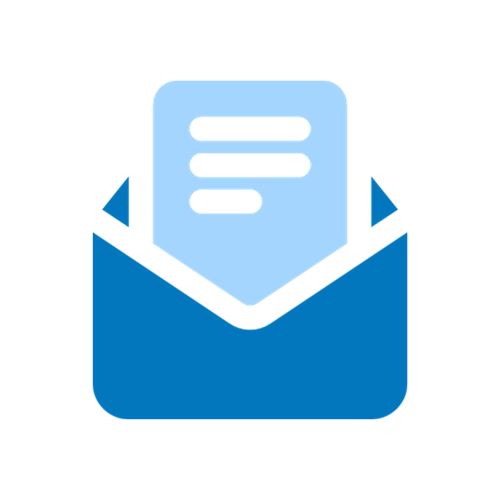
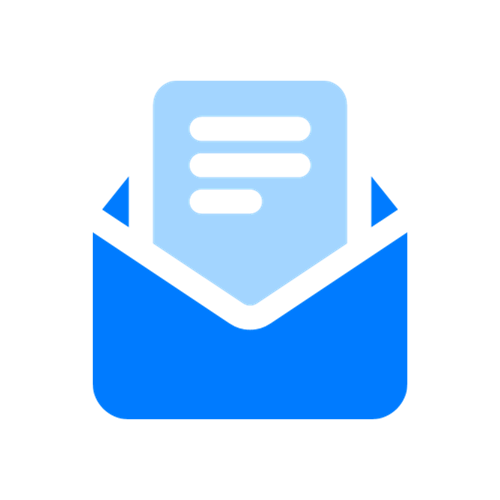
Added new images and modified the CSS files.

Changed region(s): [[0.18, 0.45, 0.84, 0.84], [0.72, 0.36, 0.81, 0.45], [0.21, 0.36, 0.27, 0.45]]

diff --git a/app/static/doctor_style.css b/app/static/doctor_style.css
@@ -21,10 +21,9 @@
 }
 
 .update-icon {
-    top: 130px;
-    width: 55px;
-    left: 1400px;
-    border-radius: 100%;
+    top: 43px;
+    width: 45px;
+    left: 1453px;
     z-index: 1;
     position: fixed;
     cursor: pointer;
@@ -37,15 +36,14 @@
 /* -------------------------------------------- BACK ICON -------------------------------------------- */
 .back-icon img {
     position: absolute;
-    width: 25px;
+    width: 20px;
     z-index: 1;
-    top: 55px;
+    top: 60px;
     left: 145px;
 }
 
 .back-icon img:active {
-    box-shadow: 0 0 5px rgba(0, 0, 0, 0.1); 
-    transform: translateY(2px);
+    transform: translateX(2px);
 }
 
 /* -------------------------------------------- PATIENT DETAILS NAVBAR -------------------------------------------- */
@@ -78,7 +76,7 @@
 .patient-bg {
     position: absolute;
     width: 1230px;  
-    height: 100%; 
+    height: 610px; 
     background-color: white;
     box-shadow: 10px 10px 20px 10px var(--blueC);
     top: 85px;
@@ -110,7 +108,7 @@
     width: 100px;
 }
 
-/* Dropdown styles */
+/* dropdown styles */
 input, select {
     padding: 10px;
     border: 2px solid var(--blueB);
@@ -151,7 +149,7 @@ input, select {
     gap: 55px;
 }
 
-/* -------------------------------------------- MEDICAL HISTORY, ASSESSMENT, LAB REQUEST, PRESCRIPTION BACKGROUNDS -------------------------------------------- */
+/* -------------------------------------------- MEDICAL HISTORY, ASSESSMENT, LAB REQUEST, PRESCRIPTION AND REPORT BACKGROUNDS -------------------------------------------- */
 .patient-bg.history {
     width: 1230px;  
     height: 2650px; 
@@ -243,10 +241,10 @@ input, select {
 }
 
 .med-header.prescription {
-    top: 390px;
+    top: 330px;
 }
 
-/* Sub messages */
+/* subheading */
 .subtext {
     position: relative;
     top: 95px;
@@ -254,7 +252,7 @@ input, select {
     font-size: 14px;
 }
 
-/* Checkboxes */
+/* checkboxes */
 .checkbox {
     display: flex;
     gap: 5px;
@@ -262,7 +260,7 @@ input, select {
     font-size: 17px;
 }
 
-/* More row arrangements */
+/* more row arrangements */
 .p_row.immunize {
     gap: 20px;
     margin-top: 165px;
@@ -319,17 +317,17 @@ input, select {
     margin-top: 160px;
 }
 
-/* Input box for past history */
+/* input box for past history */
 .inputBox.p_history {
     width: 270px;
 }
 
-/* Input box for the date, the condition started */
+/* input box for the date, the condition started */
 .inputBox.h_date {
     width: 165px;
 }
 
-/* Dropdown for social history */
+/* dropdown for social history */
 .historyA {
     width: 120px;
 }
@@ -394,7 +392,7 @@ input, select {
     font-size: 16px;
 }
 
-/* Text area */
+/* text area */
 .complaints textarea {
     width: 1000px;
     height: 200px;
@@ -410,7 +408,7 @@ input, select {
     outline: none;
 }
 
-/* Assessment rows */
+/* assessment rows */
 .p_row.vitalRowA {
     gap: 19px;
     margin-top: 160px;
@@ -487,7 +485,7 @@ input, select {
     width: 553px;
 }
 
-/* Assessment header */
+/* assessment header */
 .med-header.Q {
     top: 520px;
 }
@@ -553,7 +551,7 @@ input, select {
     position: relative;
 }
 
-/* Prescription rows */
+/* prescription rows */
 .columnA {
     position: absolute;
     top: 190px;
@@ -614,7 +612,7 @@ input, select {
 }
 
 .prescription-container {
-    margin-top: 230px;
+    margin-top: 160px;
 }
 
 .btn-prescription {
@@ -706,7 +704,7 @@ input, select {
 }
 
 /* -------------------------------------------- LABORATORY TEST REQUEST -------------------------------------------- */
-/* Lab results rows */
+/* lab results rows */
 .p_row.rowOne {
     gap: 30px;
     margin-top: 160px;
@@ -727,7 +725,7 @@ input, select {
     margin-top: 40px;
 }
 
-/* Lab results text area */
+/* lab results text area */
 .labTest textarea {
     width: 1000px;
     height: 250px;
@@ -828,8 +826,6 @@ input, select {
 .med-header.labReport {
     top: 1510px
 }
-
-
 
 /* APPOINTMENT */
 /* style here */

diff --git a/app/static/base_style.css b/app/static/base_style.css
@@ -2,9 +2,9 @@
     --blueA: #0277BD; 
     --blueB: #A3D5FF;
     --blueC: #DFF1FF;
-    --blueD: #007bff; /* Active (button, text, background) */
-    --grayA: #6c757d;  /* Disabled Text */
-    --grayB: #e9ecef; /* Disabled Background */
+    --blueD: #007BFF; /* Active (button, text, background) */
+    --grayA: #6C757D;  /* Disabled Text */
+    --grayB: #E9ECEF; /* Disabled Background */
 }
 
 *,
@@ -94,7 +94,7 @@
     opacity: 0;
     visibility: hidden;
     transform: translateY(-50%);
-    top: 15px;
+    top: 18px;
     left: 35px;
     padding: 10px;
     border-radius: 10px;
@@ -114,19 +114,16 @@
     z-index: -1;
 }
 
-.selected-icon-bg p::after {
-    background-color: white;
-}
-
 .icon-bg p::after, .logout p::after {
     left: -6px;
     top: 5px;
 }
 
 .icon-bg:hover p, .logout:hover p {
-    left: 30px;
+    left: 25px;
     opacity: 1;
     visibility: visible;
+    z-index: 99;
 }
 
 ul {
@@ -165,16 +162,16 @@ ul li p {
     font-size: 12px;
     display: flex;
     align-items: center;
-    height: 65px; 
+    height: 60px; 
     background-color: white;
-    border-radius: 350px; 
+    border-radius: 360px; 
     overflow: hidden;
     margin-bottom: 25px;
 }
 
 .sidenav-user-bg:hover {
     display: flex;
-    width: 249px;
+    width: 200px;
 }
 
 .sidenav-user-bg div {
@@ -187,9 +184,9 @@ ul li p {
 }
 
 .user-img {
-    width: 55px;
+    width: 50px;
     border-radius: 100%;
-    margin-left: 5px;
+    margin-left: 7px;
 }
 
 /* -------------------------------------------- DASHBOARD -------------------------------------------- */
@@ -197,7 +194,7 @@ ul li p {
     font-weight: 900;
     position: absolute;
     display: flex;
-    top: 60px;
+    top: 70px;
     left: 1140px;
 }
 

diff --git a/app/static/medtech_style.css b/app/static/medtech_style.css
@@ -127,8 +127,6 @@ strong:hover {
     top: 1510px
 }
 
-
-
 /* -------------------------------------------- PATIENT -------------------------------------------- */
 /* style here */
 
